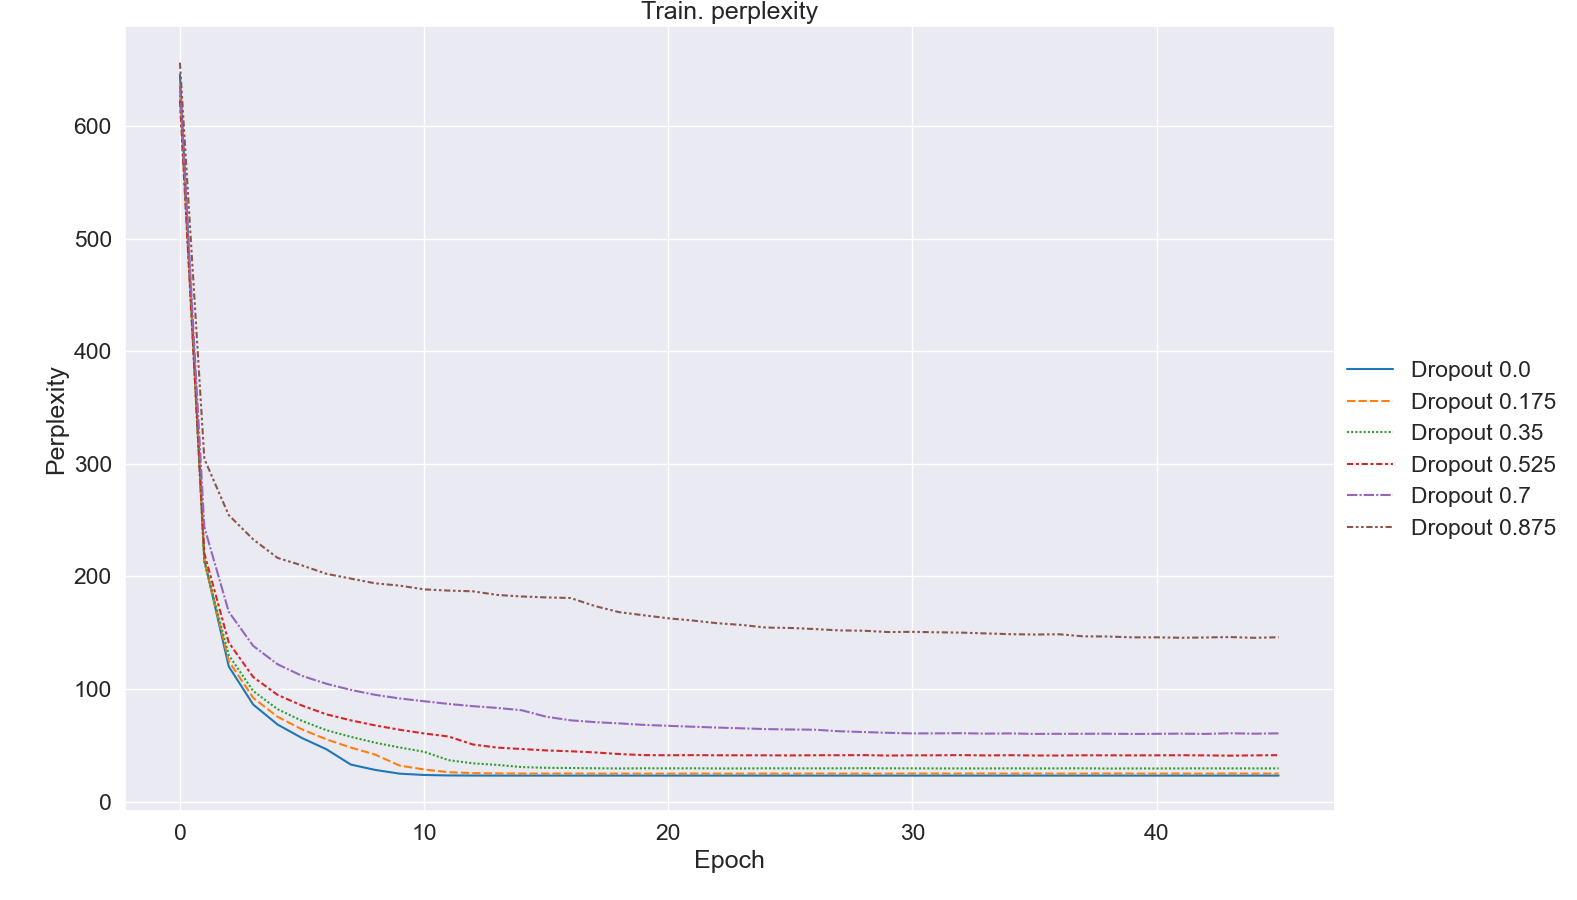
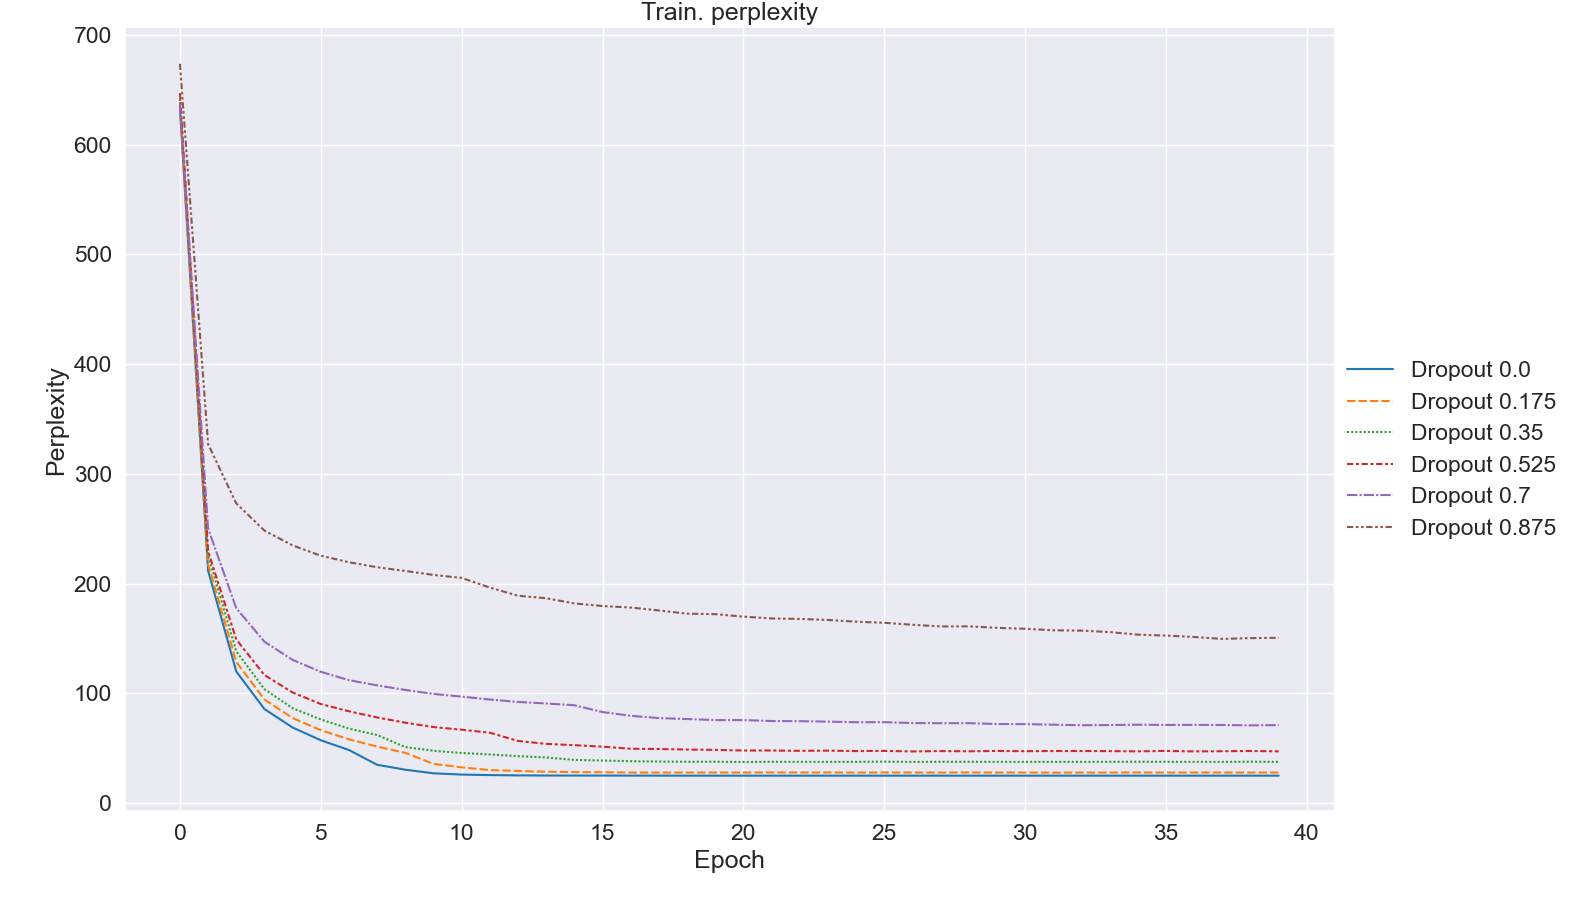
Modify charts & tables

diff --git a/infographic/tables/train._perplexity.md b/infographic/tables/train._perplexity.md
@@ -1,48 +1,42 @@
 | Train. perplexity   |   Dropout 0.0 |   Dropout 0.175 |   Dropout 0.35 |   Dropout 0.525 |   Dropout 0.7 |   Dropout 0.875 |
 |:--------------------|--------------:|----------------:|---------------:|----------------:|--------------:|----------------:|
-| epoch 1             |        645.85 |          636.62 |         627.66 |          622.44 |        635.58 |          656.61 |
-| epoch 2             |        214.75 |          213.89 |         212.84 |          220.5  |        243.91 |          304.51 |
-| epoch 3             |        120    |          124.9  |         130.06 |          141.3  |        168.58 |          254.5  |
-| epoch 4             |         86.18 |           92.12 |          98.21 |          110.65 |        138.32 |          232.97 |
-| epoch 5             |         68.4  |           75.32 |          82.05 |           94.74 |        121.96 |          216.49 |
-| epoch 6             |         56.41 |           64.11 |          71.67 |           85.27 |        111.68 |          209.82 |
-| epoch 7             |         46.43 |           55.25 |          63.37 |           77.47 |        104.64 |          202.35 |
-| epoch 8             |         32.82 |           47.97 |          57.51 |           72.14 |         99.19 |          198.09 |
-| epoch 9             |         28.07 |           41.69 |          52.24 |           67.61 |         94.79 |          193.89 |
-| epoch 10            |         24.75 |           31.9  |          48.01 |           63.77 |         91.58 |          191.87 |
-| epoch 11            |         23.59 |           28.49 |          44.2  |           60.5  |         89.12 |          188.53 |
-| epoch 12            |         23.18 |           26.05 |          36.76 |           57.78 |         86.73 |          187.45 |
-| epoch 13            |         23.07 |           25.25 |          33.93 |           50.68 |         84.72 |          186.8  |
-| epoch 14            |         23.04 |           24.95 |          32.54 |           47.9  |         83.17 |          183.58 |
-| epoch 15            |         23.03 |           24.85 |          30.61 |           46.68 |         81.1  |          182.21 |
-| epoch 16            |         23.03 |           24.83 |          29.95 |           45.4  |         75.35 |          181.4  |
-| epoch 17            |         23.03 |           24.9  |          29.79 |           44.66 |         72.17 |          180.86 |
-| epoch 18            |         23.03 |           24.76 |          29.55 |           43.63 |         70.55 |          173.67 |
-| epoch 19            |         23.03 |           24.8  |          29.39 |           42.17 |         69.43 |          168.23 |
-| epoch 20            |         23.03 |           24.78 |          29.53 |           41.24 |         68.09 |          165.51 |
-| epoch 21            |         23.03 |           24.76 |          29.47 |           41.12 |         67.28 |          162.81 |
-| epoch 22            |         23.03 |           24.82 |          29.54 |           41.22 |         66.48 |          160.83 |
-| epoch 23            |         23.03 |           24.79 |          29.38 |           41.09 |         65.73 |          158.45 |
-| epoch 24            |         23.03 |           24.77 |          29.4  |           41.07 |         65.05 |          156.93 |
-| epoch 25            |         23.03 |           24.83 |          29.51 |           41.07 |         64.36 |          154.61 |
-| epoch 26            |         23.03 |           24.73 |          29.51 |           40.94 |         64.02 |          154.24 |
-| epoch 27            |         23.03 |           24.86 |          29.45 |           41.12 |         63.82 |          153.26 |
-| epoch 28            |         23.03 |           24.8  |          29.51 |           41.14 |         62.44 |          152.04 |
-| epoch 29            |         23.03 |           24.74 |          29.61 |           41.24 |         61.75 |          151.8  |
-| epoch 30            |         23.03 |           24.77 |          29.52 |           40.85 |         61.06 |          150.61 |
-| epoch 31            |         23.03 |           24.86 |          29.48 |           41.04 |         60.53 |          150.78 |
-| epoch 32            |         23.03 |           24.85 |          29.39 |           41.08 |         60.56 |          150.4  |
-| epoch 33            |         23.03 |           24.82 |          29.42 |           41.24 |         60.72 |          150.08 |
-| epoch 34            |         23.03 |           24.91 |          29.39 |           40.96 |         60.32 |          149.39 |
-| epoch 35            |         23.03 |           24.81 |          29.49 |           41.16 |         60.54 |          148.72 |
-| epoch 36            |         23.03 |           24.86 |          29.4  |           40.9  |         60.07 |          148.39 |
-| epoch 37            |         23.03 |           24.76 |          29.45 |           40.87 |         60.17 |          148.64 |
-| epoch 38            |         23.03 |           24.81 |          29.51 |           41.09 |         60.19 |          146.78 |
-| epoch 39            |         23.03 |           24.89 |          29.31 |           41.05 |         60.27 |          146.66 |
-| epoch 40            |         23.03 |           24.84 |          29.38 |           40.99 |         60.03 |          145.87 |
-| epoch 41            |         23.03 |           24.79 |          29.38 |           41.05 |         60.17 |          145.91 |
-| epoch 42            |         23.03 |           24.83 |          29.41 |           41.14 |         60.3  |          145.53 |
-| epoch 43            |         23.03 |           24.76 |          29.47 |           40.99 |         60.08 |          145.78 |
-| epoch 44            |         23.03 |           24.89 |          29.45 |           40.76 |         60.66 |          146.15 |
-| epoch 45            |         23.03 |           24.82 |          29.43 |           41    |         60.27 |          145.48 |
-| epoch 46            |         23.03 |           24.82 |          29.44 |           41.19 |         60.57 |          146    |
+| epoch 1             |        633.22 |          635.26 |         641.58 |          646.84 |        637.16 |          673.63 |
+| epoch 2             |        211.79 |          217.69 |         225.66 |          229.55 |        250.27 |          327.07 |
+| epoch 3             |        119.93 |          128.62 |         138.29 |          149.09 |        177.54 |          273.04 |
+| epoch 4             |         85.68 |           94.38 |         103.8  |          116.71 |        147.05 |          248.28 |
+| epoch 5             |         68.89 |           77.54 |          86.47 |          100.78 |        130.47 |          234.8  |
+| epoch 6             |         57.26 |           66.42 |          76.2  |           90.26 |        119.62 |          225.4  |
+| epoch 7             |         48.39 |           58.14 |          67.89 |           83.67 |        112.01 |          219.48 |
+| epoch 8             |         34.92 |           51.54 |          62.06 |           78.04 |        107.29 |          214.89 |
+| epoch 9             |         30.43 |           45.78 |          51.05 |           73.29 |        103.09 |          211.52 |
+| epoch 10            |         27.16 |           35.75 |          47.7  |           69.31 |         99.48 |          207.91 |
+| epoch 11            |         26    |           32.57 |          45.69 |           66.88 |         97.05 |          205.16 |
+| epoch 12            |         25.54 |           30.1  |          44.34 |           64.15 |         94.38 |          196.37 |
+| epoch 13            |         25.25 |           29.3  |          42.8  |           56.64 |         92.16 |          188.96 |
+| epoch 14            |         25.15 |           28.56 |          41.59 |           53.99 |         90.79 |          186.65 |
+| epoch 15            |         25.12 |           28.26 |          39.38 |           52.78 |         89.15 |          181.94 |
+| epoch 16            |         25.1  |           28.09 |          38.78 |           51.43 |         82.98 |          179.56 |
+| epoch 17            |         25.07 |           27.88 |          38.19 |           49.52 |         79.56 |          178.17 |
+| epoch 18            |         25.05 |           27.87 |          37.88 |           49.32 |         77.49 |          175.56 |
+| epoch 19            |         25.03 |           27.85 |          37.67 |           48.79 |         76.61 |          172.58 |
+| epoch 20            |         25.02 |           27.9  |          37.7  |           48.52 |         75.64 |          172.17 |
+| epoch 21            |         25.02 |           27.85 |          37.43 |           47.91 |         75.66 |          169.89 |
+| epoch 22            |         25.02 |           27.98 |          37.64 |           47.94 |         74.79 |          168.24 |
+| epoch 23            |         25.02 |           27.9  |          37.6  |           47.63 |         74.65 |          167.81 |
+| epoch 24            |         25.02 |           27.93 |          37.57 |           47.82 |         74.25 |          166.88 |
+| epoch 25            |         25.02 |           27.83 |          37.63 |           47.43 |         73.71 |          165.3  |
+| epoch 26            |         25.02 |           27.91 |          37.77 |           47.6  |         73.75 |          164.29 |
+| epoch 27            |         25.02 |           27.89 |          37.53 |           47.07 |         72.96 |          162.51 |
+| epoch 28            |         25.02 |           27.82 |          37.67 |           47.41 |         72.81 |          160.95 |
+| epoch 29            |         25.02 |           27.95 |          37.68 |           47.23 |         72.85 |          161.04 |
+| epoch 30            |         25.02 |           27.86 |          37.58 |           47.53 |         72.06 |          159.7  |
+| epoch 31            |         25.02 |           27.9  |          37.58 |           47.31 |         71.97 |          158.86 |
+| epoch 32            |         25.02 |           27.76 |          37.58 |           47.46 |         71.46 |          157.48 |
+| epoch 33            |         25.02 |           27.85 |          37.57 |           47.49 |         70.96 |          157.16 |
+| epoch 34            |         25.02 |           27.86 |          37.65 |           47.38 |         71.15 |          155.85 |
+| epoch 35            |         25.02 |           27.94 |          37.69 |           47.17 |         71.43 |          153.5  |
+| epoch 36            |         25.02 |           27.84 |          37.63 |           47.55 |         71.23 |          152.64 |
+| epoch 37            |         25.02 |           27.9  |          37.6  |           47.11 |         71.27 |          151.36 |
+| epoch 38            |         25.02 |           27.88 |          37.57 |           47.29 |         71.16 |          149.61 |
+| epoch 39            |         25.02 |           27.85 |          37.72 |           47.51 |         70.83 |          150.34 |
+| epoch 40            |         25.02 |           27.9  |          37.6  |           47.16 |         71.11 |          150.6  |

diff --git a/infographic/tables/valid._perplexity.md b/infographic/tables/valid._perplexity.md
@@ -1,48 +1,42 @@
 | Valid. perplexity   |   Dropout 0.0 |   Dropout 0.175 |   Dropout 0.35 |   Dropout 0.525 |   Dropout 0.7 |   Dropout 0.875 |
 |:--------------------|--------------:|----------------:|---------------:|----------------:|--------------:|----------------:|
-| epoch 1             |        362.23 |          359.2  |         369.62 |          324.99 |        347.56 |          354.89 |
-| epoch 2             |        195.23 |          199.38 |         183.17 |          175.5  |        183.72 |          265.94 |
-| epoch 3             |        149.14 |          144.65 |         132.26 |          133.63 |        144.72 |          233.95 |
-| epoch 4             |        123.27 |          120.9  |         115.16 |          117.11 |        126.3  |          218.54 |
-| epoch 5             |        112.1  |          108.93 |         103.12 |          106.44 |        117.74 |          202.7  |
-| epoch 6             |        106.26 |          102.24 |          95.73 |           98.67 |        109.74 |          198.72 |
-| epoch 7             |        107.3  |           99.92 |          93.37 |           95.65 |        107.11 |          195.18 |
-| epoch 8             |         95.35 |           97.77 |          92.01 |           93.77 |        103.27 |          189.14 |
-| epoch 9             |         98.57 |           98.67 |          91.49 |           89.04 |        102.19 |          184.52 |
-| epoch 10            |         99.1  |           92.19 |          90.31 |           88.72 |         98.11 |          181.88 |
-| epoch 11            |         98.71 |           94.02 |          91.82 |           87.16 |         97.67 |          179.73 |
-| epoch 12            |         98.59 |           93.7  |          86.24 |           87.47 |         95.66 |          179.22 |
-| epoch 13            |         98.58 |           93.21 |          86.13 |           82.73 |         95.3  |          176.5  |
-| epoch 14            |         98.57 |           93.16 |          86.85 |           82.18 |         94.07 |          175.4  |
-| epoch 15            |         98.57 |           93.15 |          86.14 |           82.05 |         94.9  |          173.23 |
-| epoch 16            |         98.57 |           93.15 |          85.99 |           81.84 |         90.79 |          172.66 |
-| epoch 17            |         98.57 |           93.15 |          85.91 |           81.57 |         89.72 |          174.85 |
-| epoch 18            |         98.57 |           93.15 |          85.99 |           81.75 |         89.41 |          169.77 |
-| epoch 19            |         98.57 |           93.15 |          85.97 |           81.61 |         88.99 |          167.21 |
-| epoch 20            |         98.57 |           93.15 |          85.97 |           81.48 |         88.81 |          166.14 |
-| epoch 21            |         98.57 |           93.15 |          85.97 |           81.52 |         88.56 |          164.48 |
-| epoch 22            |         98.57 |           93.15 |          85.97 |           81.51 |         88.27 |          163.18 |
-| epoch 23            |         98.57 |           93.15 |          85.97 |           81.51 |         87.94 |          160.39 |
-| epoch 24            |         98.57 |           93.15 |          85.97 |           81.51 |         87.92 |          160.51 |
-| epoch 25            |         98.57 |           93.15 |          85.97 |           81.5  |         87.83 |          160.29 |
-| epoch 26            |         98.57 |           93.15 |          85.97 |           81.5  |         87.64 |          159.82 |
-| epoch 27            |         98.57 |           93.15 |          85.97 |           81.5  |         87.17 |          159.58 |
-| epoch 28            |         98.57 |           93.15 |          85.97 |           81.5  |         87.44 |          159    |
-| epoch 29            |         98.57 |           93.15 |          85.97 |           81.5  |         87.34 |          158.78 |
-| epoch 30            |         98.57 |           93.15 |          85.97 |           81.5  |         87.14 |          158.36 |
-| epoch 31            |         98.57 |           93.15 |          85.97 |           81.5  |         87.13 |          157.85 |
-| epoch 32            |         98.57 |           93.15 |          85.97 |           81.5  |         87.13 |          157.48 |
-| epoch 33            |         98.57 |           93.15 |          85.97 |           81.5  |         87.05 |          157.07 |
-| epoch 34            |         98.57 |           93.15 |          85.97 |           81.5  |         87.08 |          157.06 |
-| epoch 35            |         98.57 |           93.15 |          85.97 |           81.5  |         87.07 |          156.49 |
-| epoch 36            |         98.57 |           93.15 |          85.97 |           81.5  |         87.07 |          156.04 |
-| epoch 37            |         98.57 |           93.15 |          85.97 |           81.5  |         87.07 |          155.9  |
-| epoch 38            |         98.57 |           93.15 |          85.97 |           81.5  |         87.07 |          154.85 |
-| epoch 39            |         98.57 |           93.15 |          85.97 |           81.5  |         87.07 |          154.92 |
-| epoch 40            |         98.57 |           93.15 |          85.97 |           81.5  |         87.07 |          154.69 |
-| epoch 41            |         98.57 |           93.15 |          85.97 |           81.5  |         87.07 |          154.64 |
-| epoch 42            |         98.57 |           93.15 |          85.97 |           81.5  |         87.07 |          154.25 |
-| epoch 43            |         98.57 |           93.15 |          85.97 |           81.5  |         87.07 |          154.26 |
-| epoch 44            |         98.57 |           93.15 |          85.97 |           81.5  |         87.07 |          154.27 |
-| epoch 45            |         98.57 |           93.15 |          85.97 |           81.5  |         87.07 |          154.26 |
-| epoch 46            |         98.57 |           93.15 |          85.97 |           81.5  |         87.07 |          154.27 |
+| epoch 1             |        327.24 |          328.78 |         324.62 |          331.01 |        331.47 |          377.33 |
+| epoch 2             |        166.24 |          166.61 |         179.68 |          178.25 |        187.67 |          289.28 |
+| epoch 3             |        115.73 |          119.11 |         123.61 |          135.6  |        157.88 |          254.49 |
+| epoch 4             |        104.58 |          104.14 |         103.4  |          111.96 |        133.4  |          231.29 |
+| epoch 5             |         98.01 |           95.7  |          96.31 |           99.3  |        119.91 |          221.19 |
+| epoch 6             |         94.71 |           94.12 |          88.66 |           96.58 |        110.01 |          211.41 |
+| epoch 7             |         99.5  |           90.78 |          86.42 |           95.41 |        107.76 |          206.95 |
+| epoch 8             |         92.09 |           89.39 |          87.15 |           91.08 |        104.18 |          202.97 |
+| epoch 9             |         94.78 |           91.31 |          80.23 |           88.78 |        101.46 |          200.22 |
+| epoch 10            |         92.22 |           85.92 |          80.17 |           86.56 |         99.34 |          193.27 |
+| epoch 11            |         91.5  |           86.39 |          80.12 |           84.45 |         98.07 |          193.57 |
+| epoch 12            |         91.68 |           85.66 |          79.98 |           85.02 |         97.44 |          190.12 |
+| epoch 13            |         91.51 |           85.85 |          79.59 |           80.8  |         96.47 |          186.49 |
+| epoch 14            |         91.49 |           85.24 |          79.61 |           80.56 |         94.14 |          184.94 |
+| epoch 15            |         91.47 |           85.22 |          78.81 |           80.56 |         94.58 |          181.67 |
+| epoch 16            |         91.47 |           85.37 |          79.04 |           80.71 |         90.91 |          180.39 |
+| epoch 17            |         91.47 |           85.34 |          78.8  |           80.28 |         90.93 |          179.82 |
+| epoch 18            |         91.47 |           85.32 |          78.85 |           80.1  |         90.51 |          177.32 |
+| epoch 19            |         91.47 |           85.32 |          78.85 |           80.04 |         90.17 |          175.51 |
+| epoch 20            |         91.47 |           85.32 |          78.85 |           80.1  |         90.04 |          173.53 |
+| epoch 21            |         91.47 |           85.32 |          78.86 |           80.01 |         89.88 |          172.83 |
+| epoch 22            |         91.47 |           85.32 |          78.86 |           79.9  |         89.79 |          170.29 |
+| epoch 23            |         91.47 |           85.32 |          78.86 |           79.86 |         89.66 |          169.59 |
+| epoch 24            |         91.47 |           85.32 |          78.86 |           79.83 |         89.61 |          169.4  |
+| epoch 25            |         91.47 |           85.32 |          78.86 |           79.9  |         89.57 |          167.61 |
+| epoch 26            |         91.47 |           85.32 |          78.86 |           79.91 |         89.42 |          165.46 |
+| epoch 27            |         91.47 |           85.32 |          78.86 |           79.91 |         89.22 |          164.82 |
+| epoch 28            |         91.47 |           85.32 |          78.86 |           79.91 |         89.2  |          163.58 |
+| epoch 29            |         91.47 |           85.32 |          78.86 |           79.91 |         89.1  |          162.9  |
+| epoch 30            |         91.47 |           85.32 |          78.86 |           79.91 |         88.97 |          161.24 |
+| epoch 31            |         91.47 |           85.32 |          78.86 |           79.91 |         89.01 |          159.62 |
+| epoch 32            |         91.47 |           85.32 |          78.86 |           79.91 |         88.84 |          159.52 |
+| epoch 33            |         91.47 |           85.32 |          78.86 |           79.91 |         88.84 |          158.43 |
+| epoch 34            |         91.47 |           85.32 |          78.86 |           79.91 |         88.82 |          158.94 |
+| epoch 35            |         91.47 |           85.32 |          78.86 |           79.91 |         88.82 |          156.3  |
+| epoch 36            |         91.47 |           85.32 |          78.86 |           79.91 |         88.8  |          155.72 |
+| epoch 37            |         91.47 |           85.32 |          78.86 |           79.91 |         88.8  |          155.79 |
+| epoch 38            |         91.47 |           85.32 |          78.86 |           79.91 |         88.79 |          154.67 |
+| epoch 39            |         91.47 |           85.32 |          78.86 |           79.91 |         88.82 |          154.55 |
+| epoch 40            |         91.47 |           85.32 |          78.86 |           79.91 |         88.82 |          154.55 |

diff --git a/infographic/tables/test_perplexity.md b/infographic/tables/test_perplexity.md
@@ -1,3 +1,3 @@
 | Test perplexity   |   Dropout 0.0 |   Dropout 0.175 |   Dropout 0.35 |   Dropout 0.525 |   Dropout 0.7 |   Dropout 0.875 |
 |:------------------|--------------:|----------------:|---------------:|----------------:|--------------:|----------------:|
-| End of training   |         73.72 |           70.13 |          65.21 |           62.05 |         66.68 |          127.92 |
+| End of training   |         75.05 |           67.18 |          62.89 |            63.8 |         71.91 |          132.08 |
